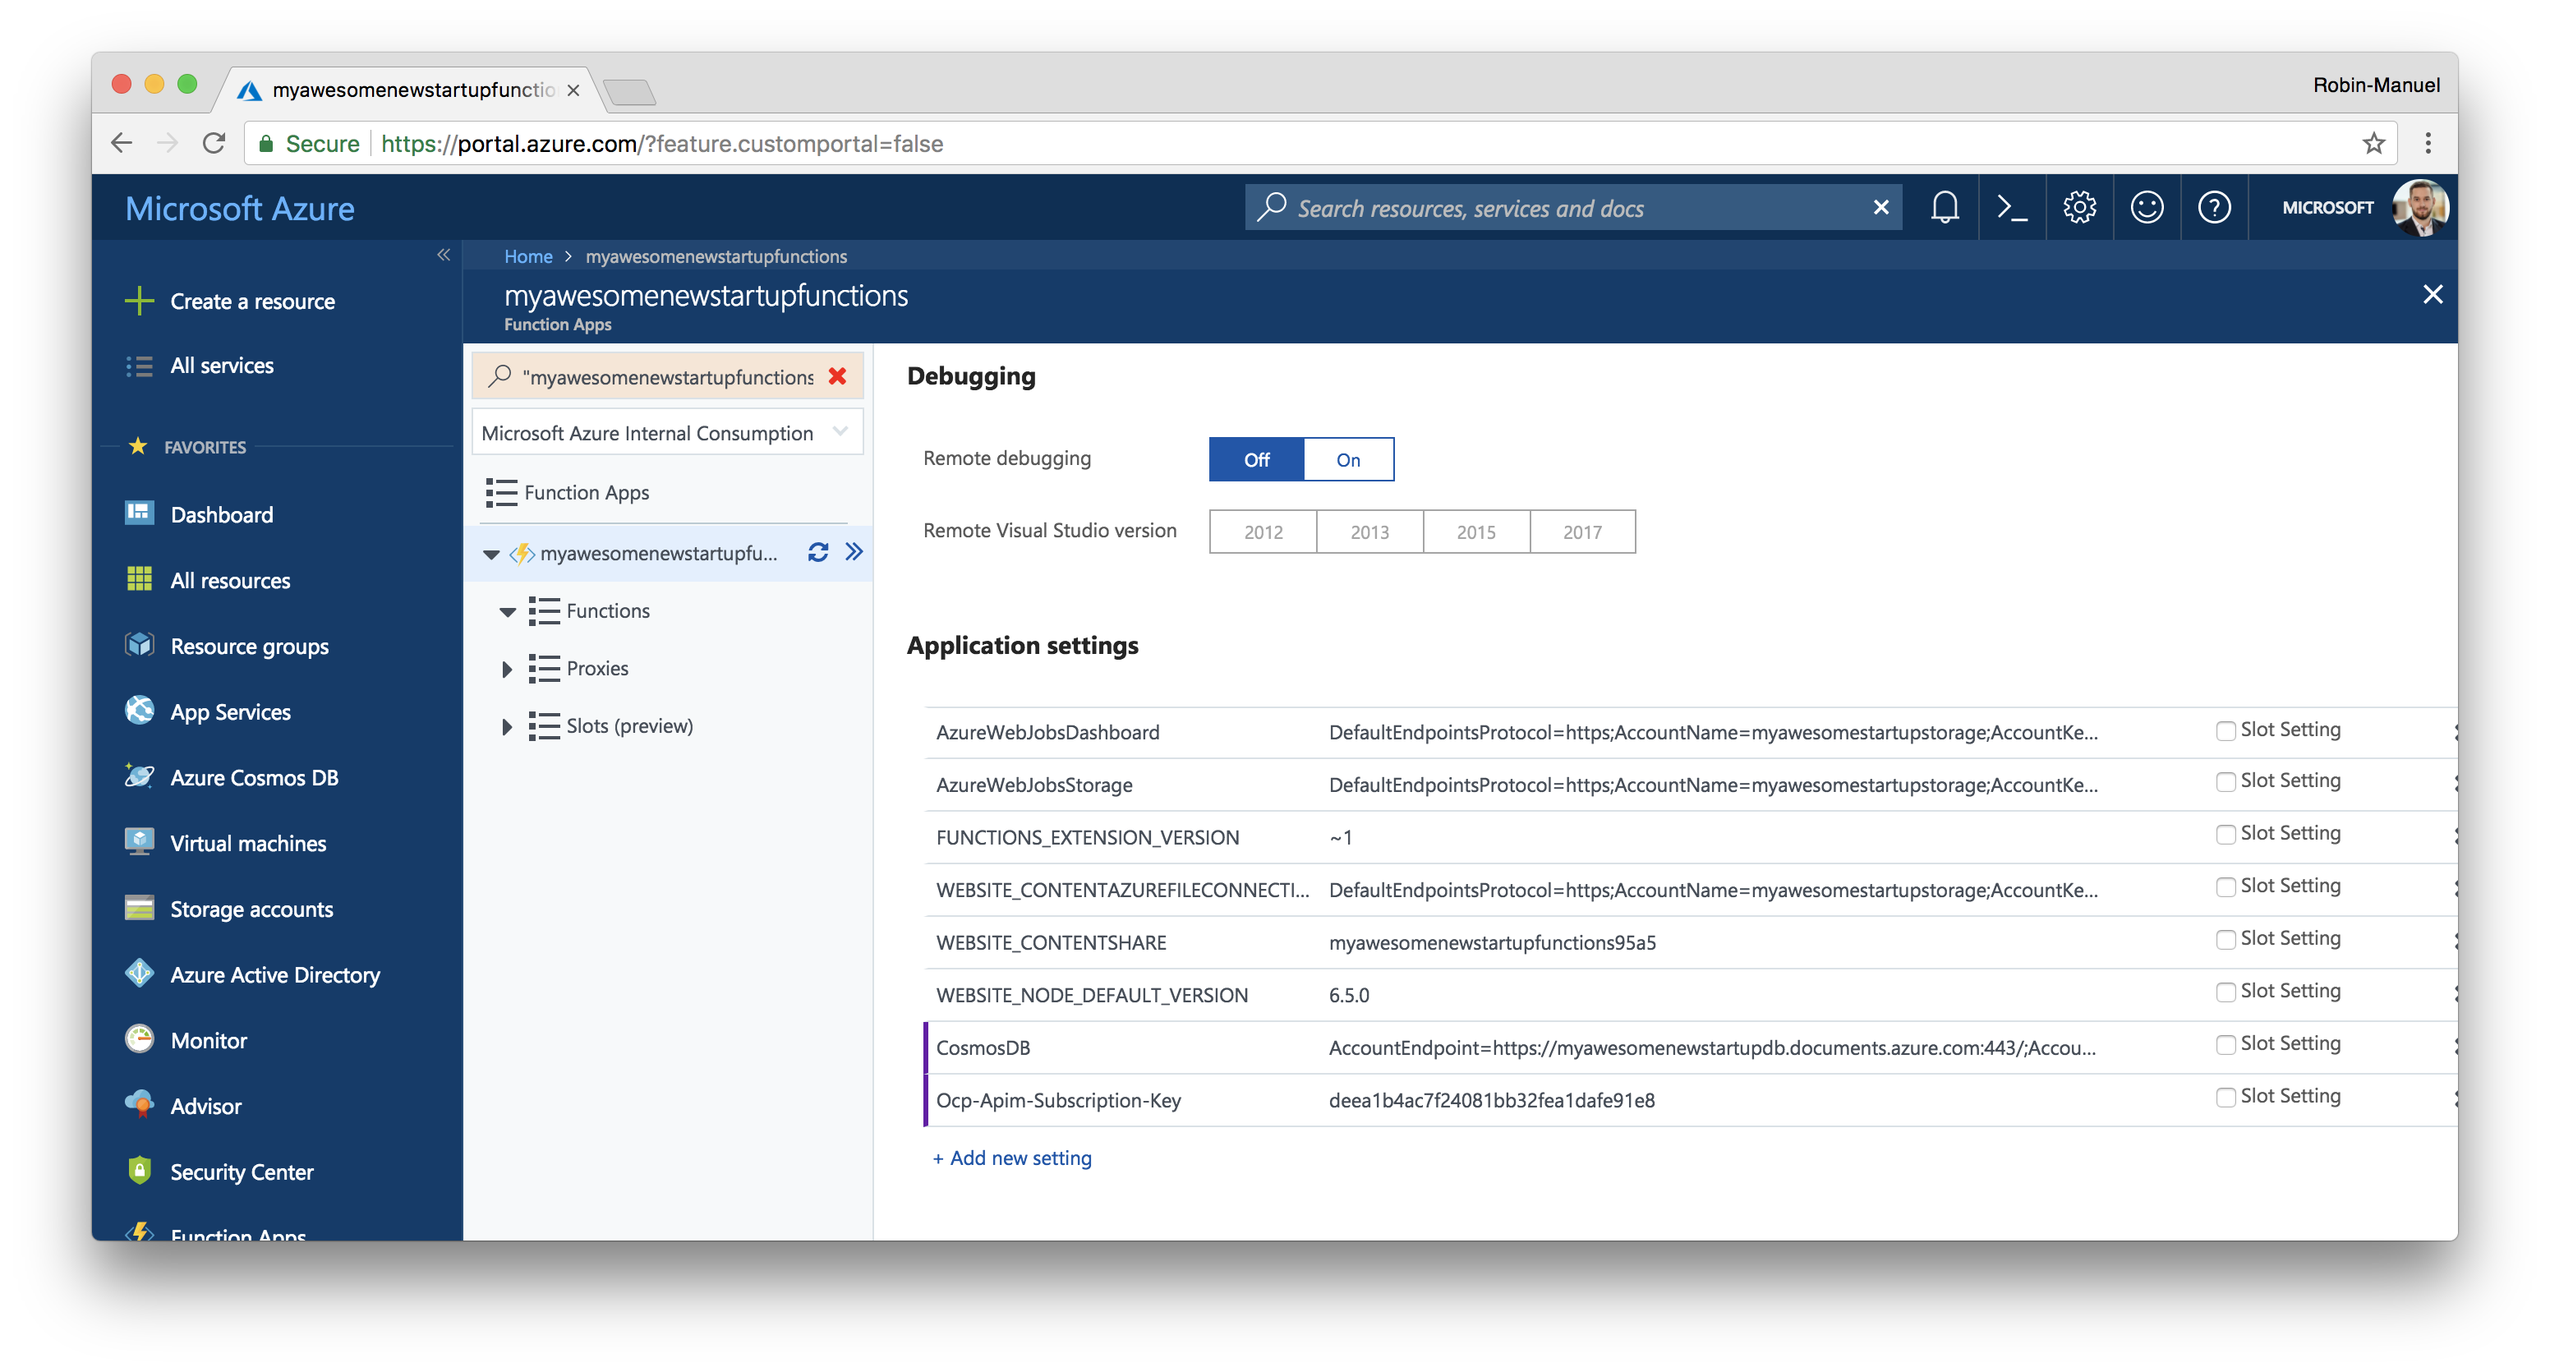
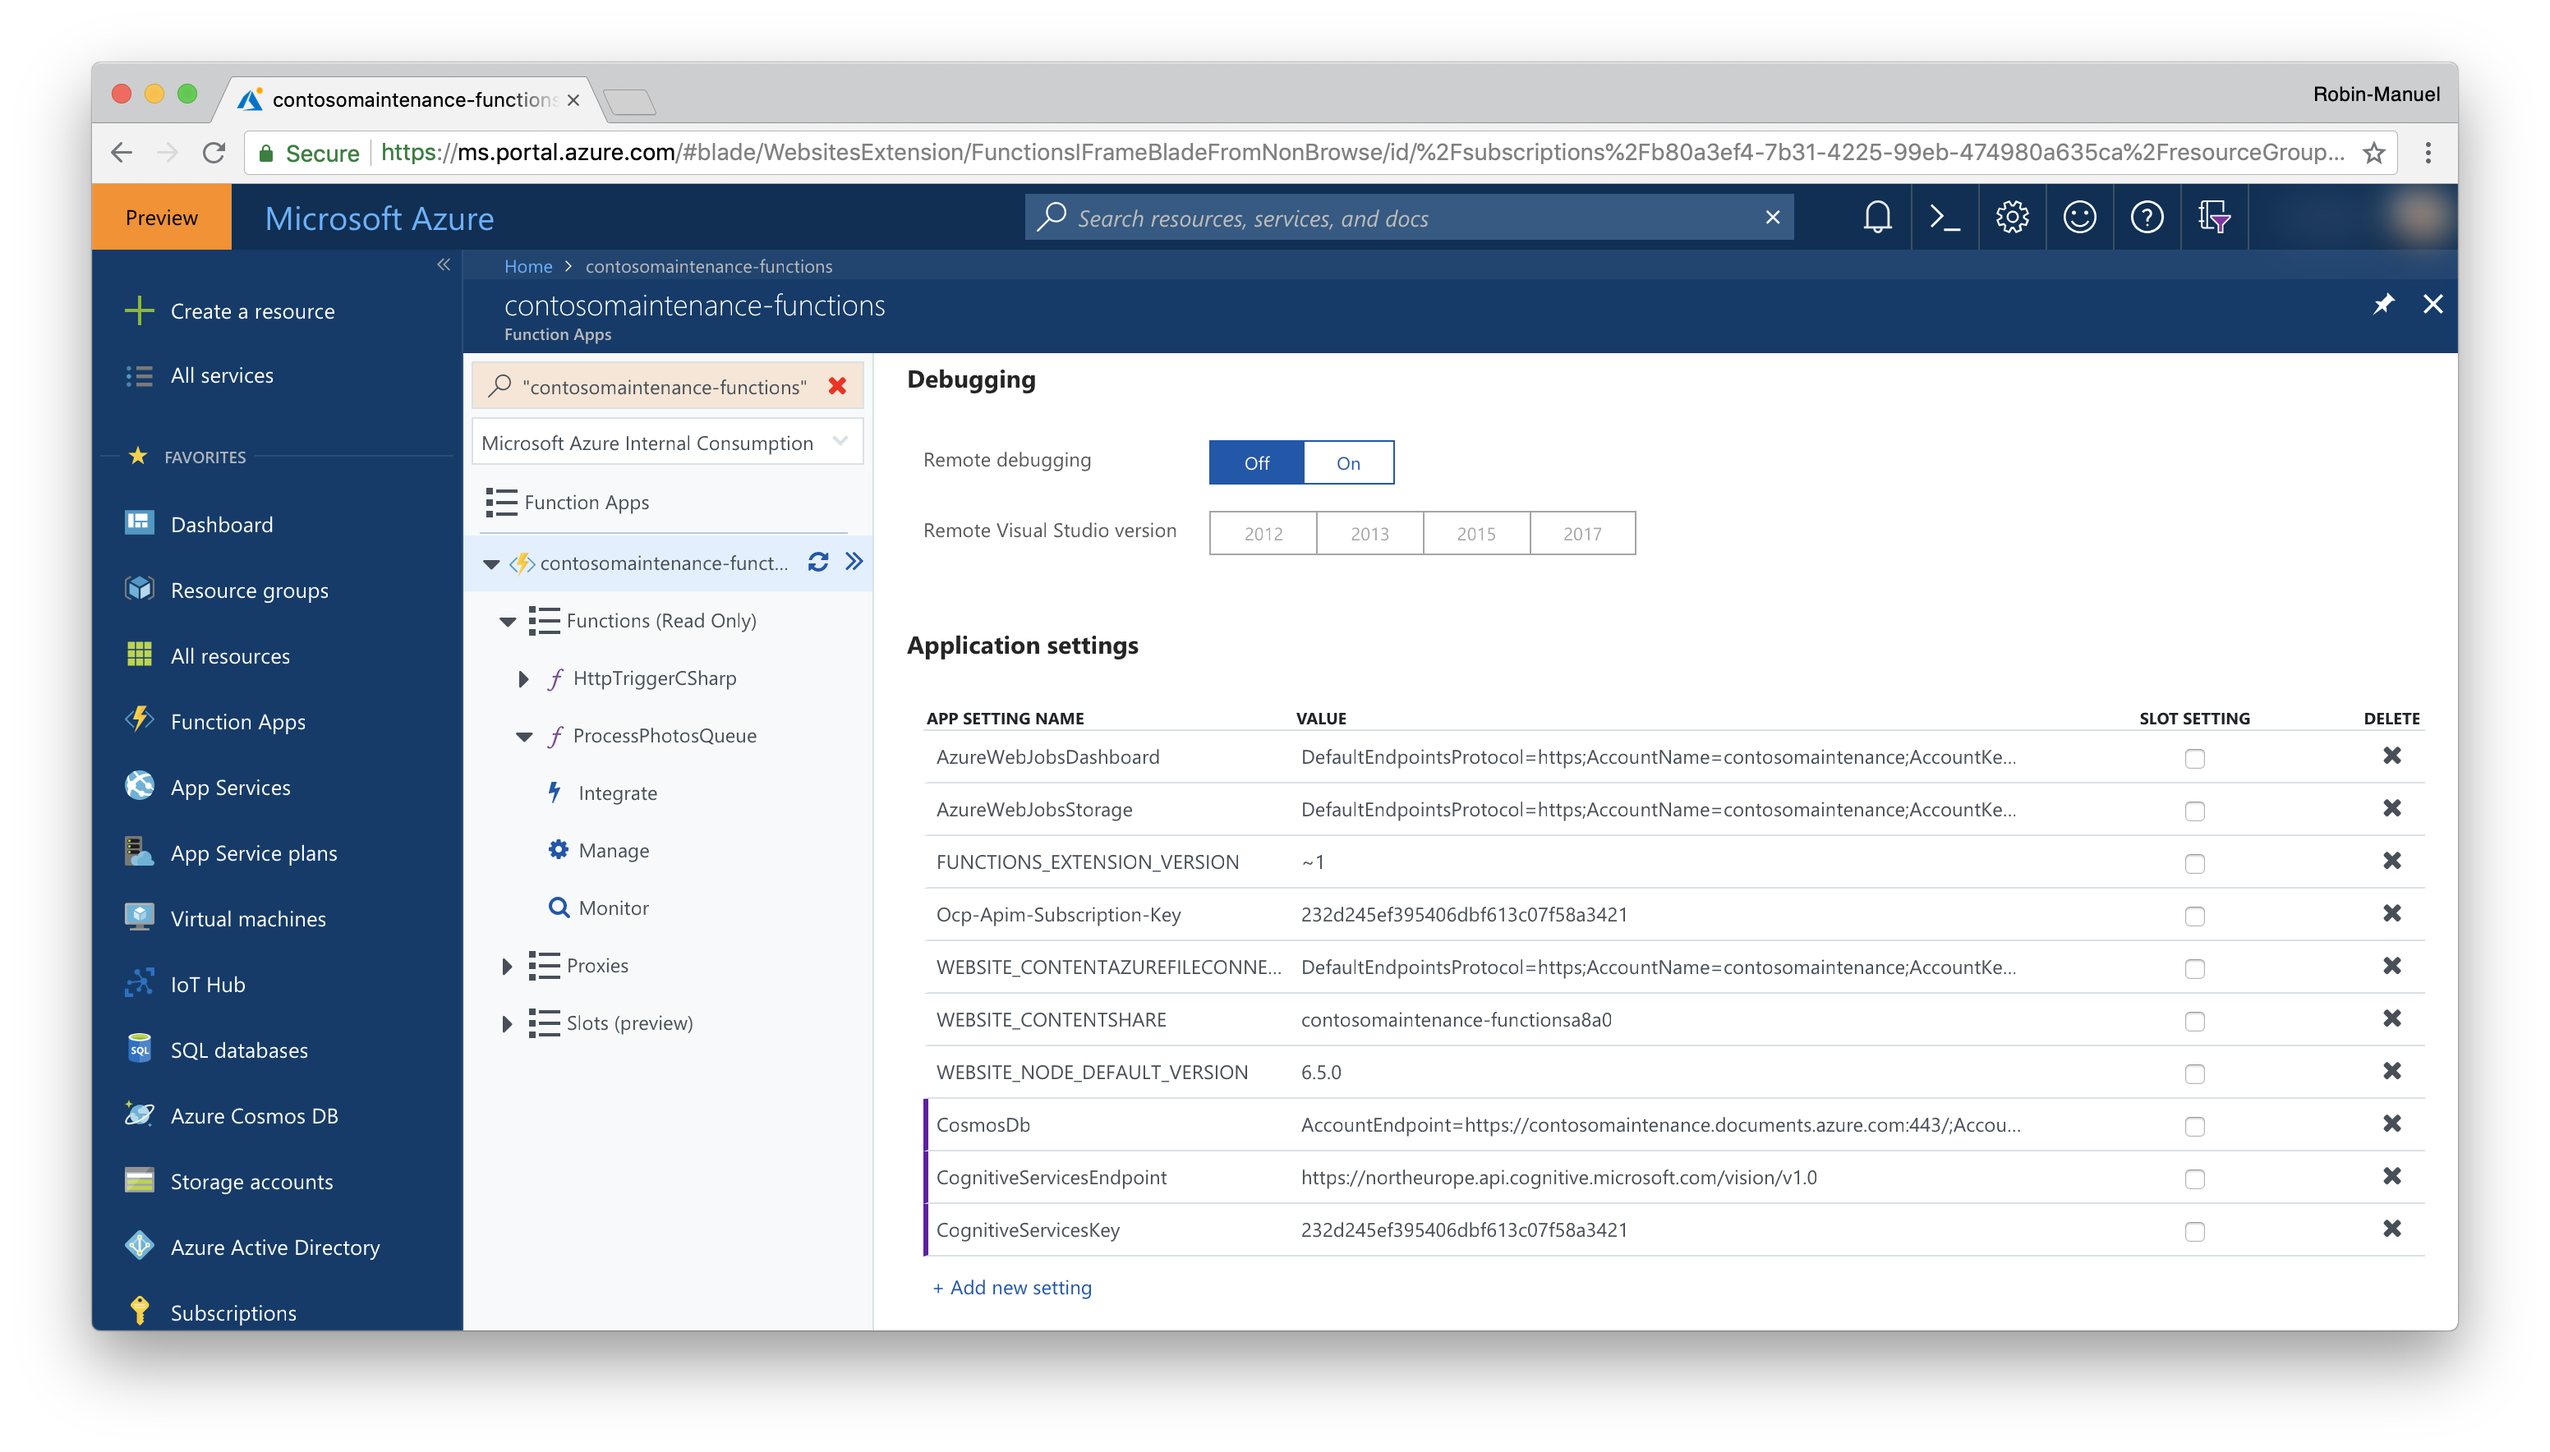
Add Cognitive Servies URL configuration to solve #78 and simplified config variabe names #54

diff --git a/Backend/Functions/ResizeImage.cs b/Backend/Functions/ResizeImage.cs
@@ -15,7 +15,7 @@ namespace ContosoMaintenance.Functions
 {
     public static class ResizeImage
     {
-        private static HttpClient httpClient = new HttpClient();
+        static readonly HttpClient httpClient = new HttpClient();
 
         [FunctionName("ProcessPhotosQueue")]
         public static async Task Run(
@@ -61,10 +61,10 @@ namespace ContosoMaintenance.Functions
         private static async Task CropImageSmartAsync(byte[] inputImage, Stream outputImage, int width, int height)
         {
             // Add Microsoft Azure Cognitive Service Token to HttpClient header
-            httpClient.DefaultRequestHeaders.Add("Ocp-Apim-Subscription-Key", Environment.GetEnvironmentVariable("Ocp-Apim-Subscription-Key"));
+            httpClient.DefaultRequestHeaders.Add("Ocp-Apim-Subscription-Key", Environment.GetEnvironmentVariable("CognitiveServicesKey"));
 
             // Create Cognitive Service request url with parameters
-            var url = $"https://northeurope.api.cognitive.microsoft.com/vision/v1.0/generateThumbnail?width={width}&height={height}&smartCropping=true";
+            var url = $"{Environment.GetEnvironmentVariable("CognitiveServicesEndpoint")}/generateThumbnail?width={width}&height={height}&smartCropping=true";
 
             using (ByteArrayContent content = new ByteArrayContent(inputImage))
             {

diff --git a/Walkthrough Guide/06 Functions and Cognitive Services/README.md b/Walkthrough Guide/06 Functions and Cognitive Services/README.md
@@ -140,7 +140,8 @@ Of course, all these Trigger, Input and Output [Bindings](https://docs.microsoft
         "AzureWebJobsStorage": "<Storage Connection String>",
         "AzureWebJobsDashboard": "<Storage Connection String>",
         "CosmosDb": "<CosmosDB Connection String>",
-        "Ocp-Apim-Subscription-Key": "<Cognitive Services Computer Vision API Key>"
+        "CognitiveServicesEndpoint": "<Cognitive Services Computer Vision Endpoint>",
+        "CognitiveServicesKey": "<Cognitive Services Computer Vision API Key>"
     }
 }
 ```
@@ -156,7 +157,8 @@ Add the settings like the following - getting the values from the relevant secti
 - **AzureWebJobsDashboard:** *Key 1 Connection String* from the Storage Account ***Access keys*** section (should be already set)
 - **AzureWebJobsStorage:** *Key 1 Connection String* from the Storage Account ***Access keys*** section (should be already set)
 - **CosmosDB:** *Primary Connection String* from the Cosmos DB ***Keys*** section
-- **Ocp-Apim-Subscription-Key:** *Key 1* from the Cognitive Service ***Keys*** section
+- **CognitiveServicesEndpoint:** *Endpoint* from the Cognitive Service ***Overview*** section
+- **CognitiveServicesKey:** *Key 1* from the Cognitive Service ***Keys*** section
 
 Scroll up and click ***Save*** to set the Environment Variables for the Function App.
 
